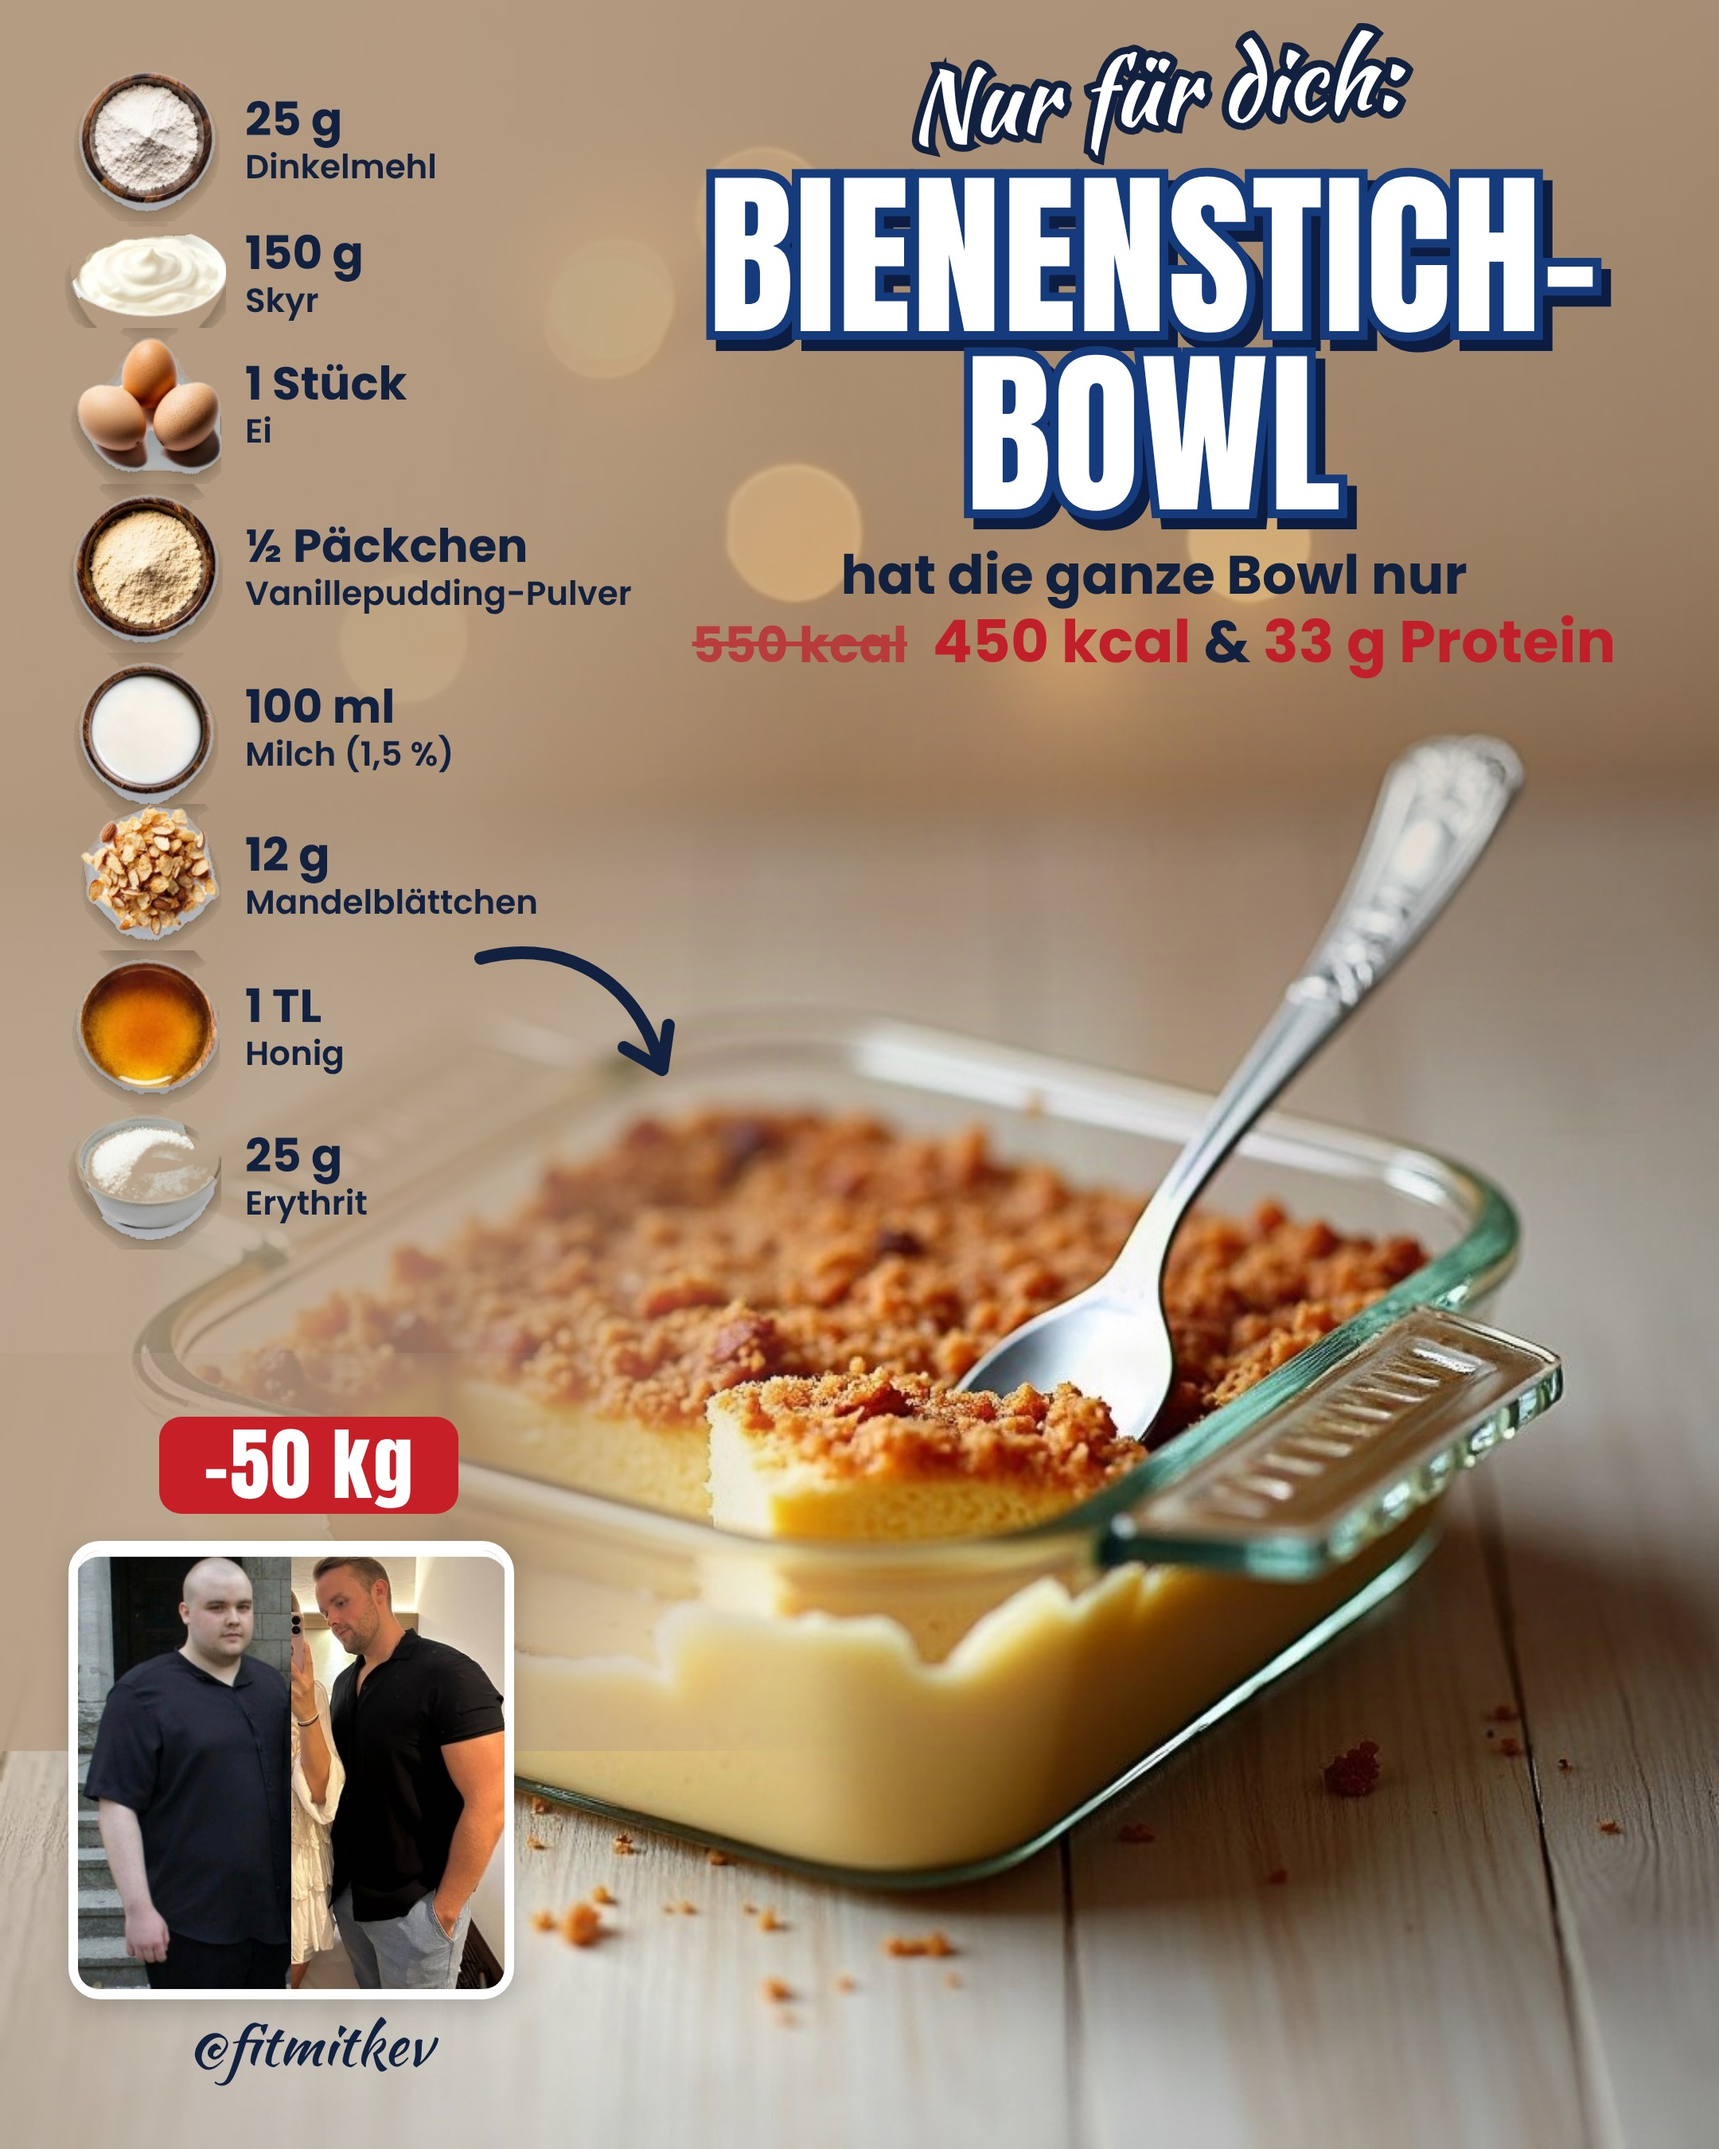
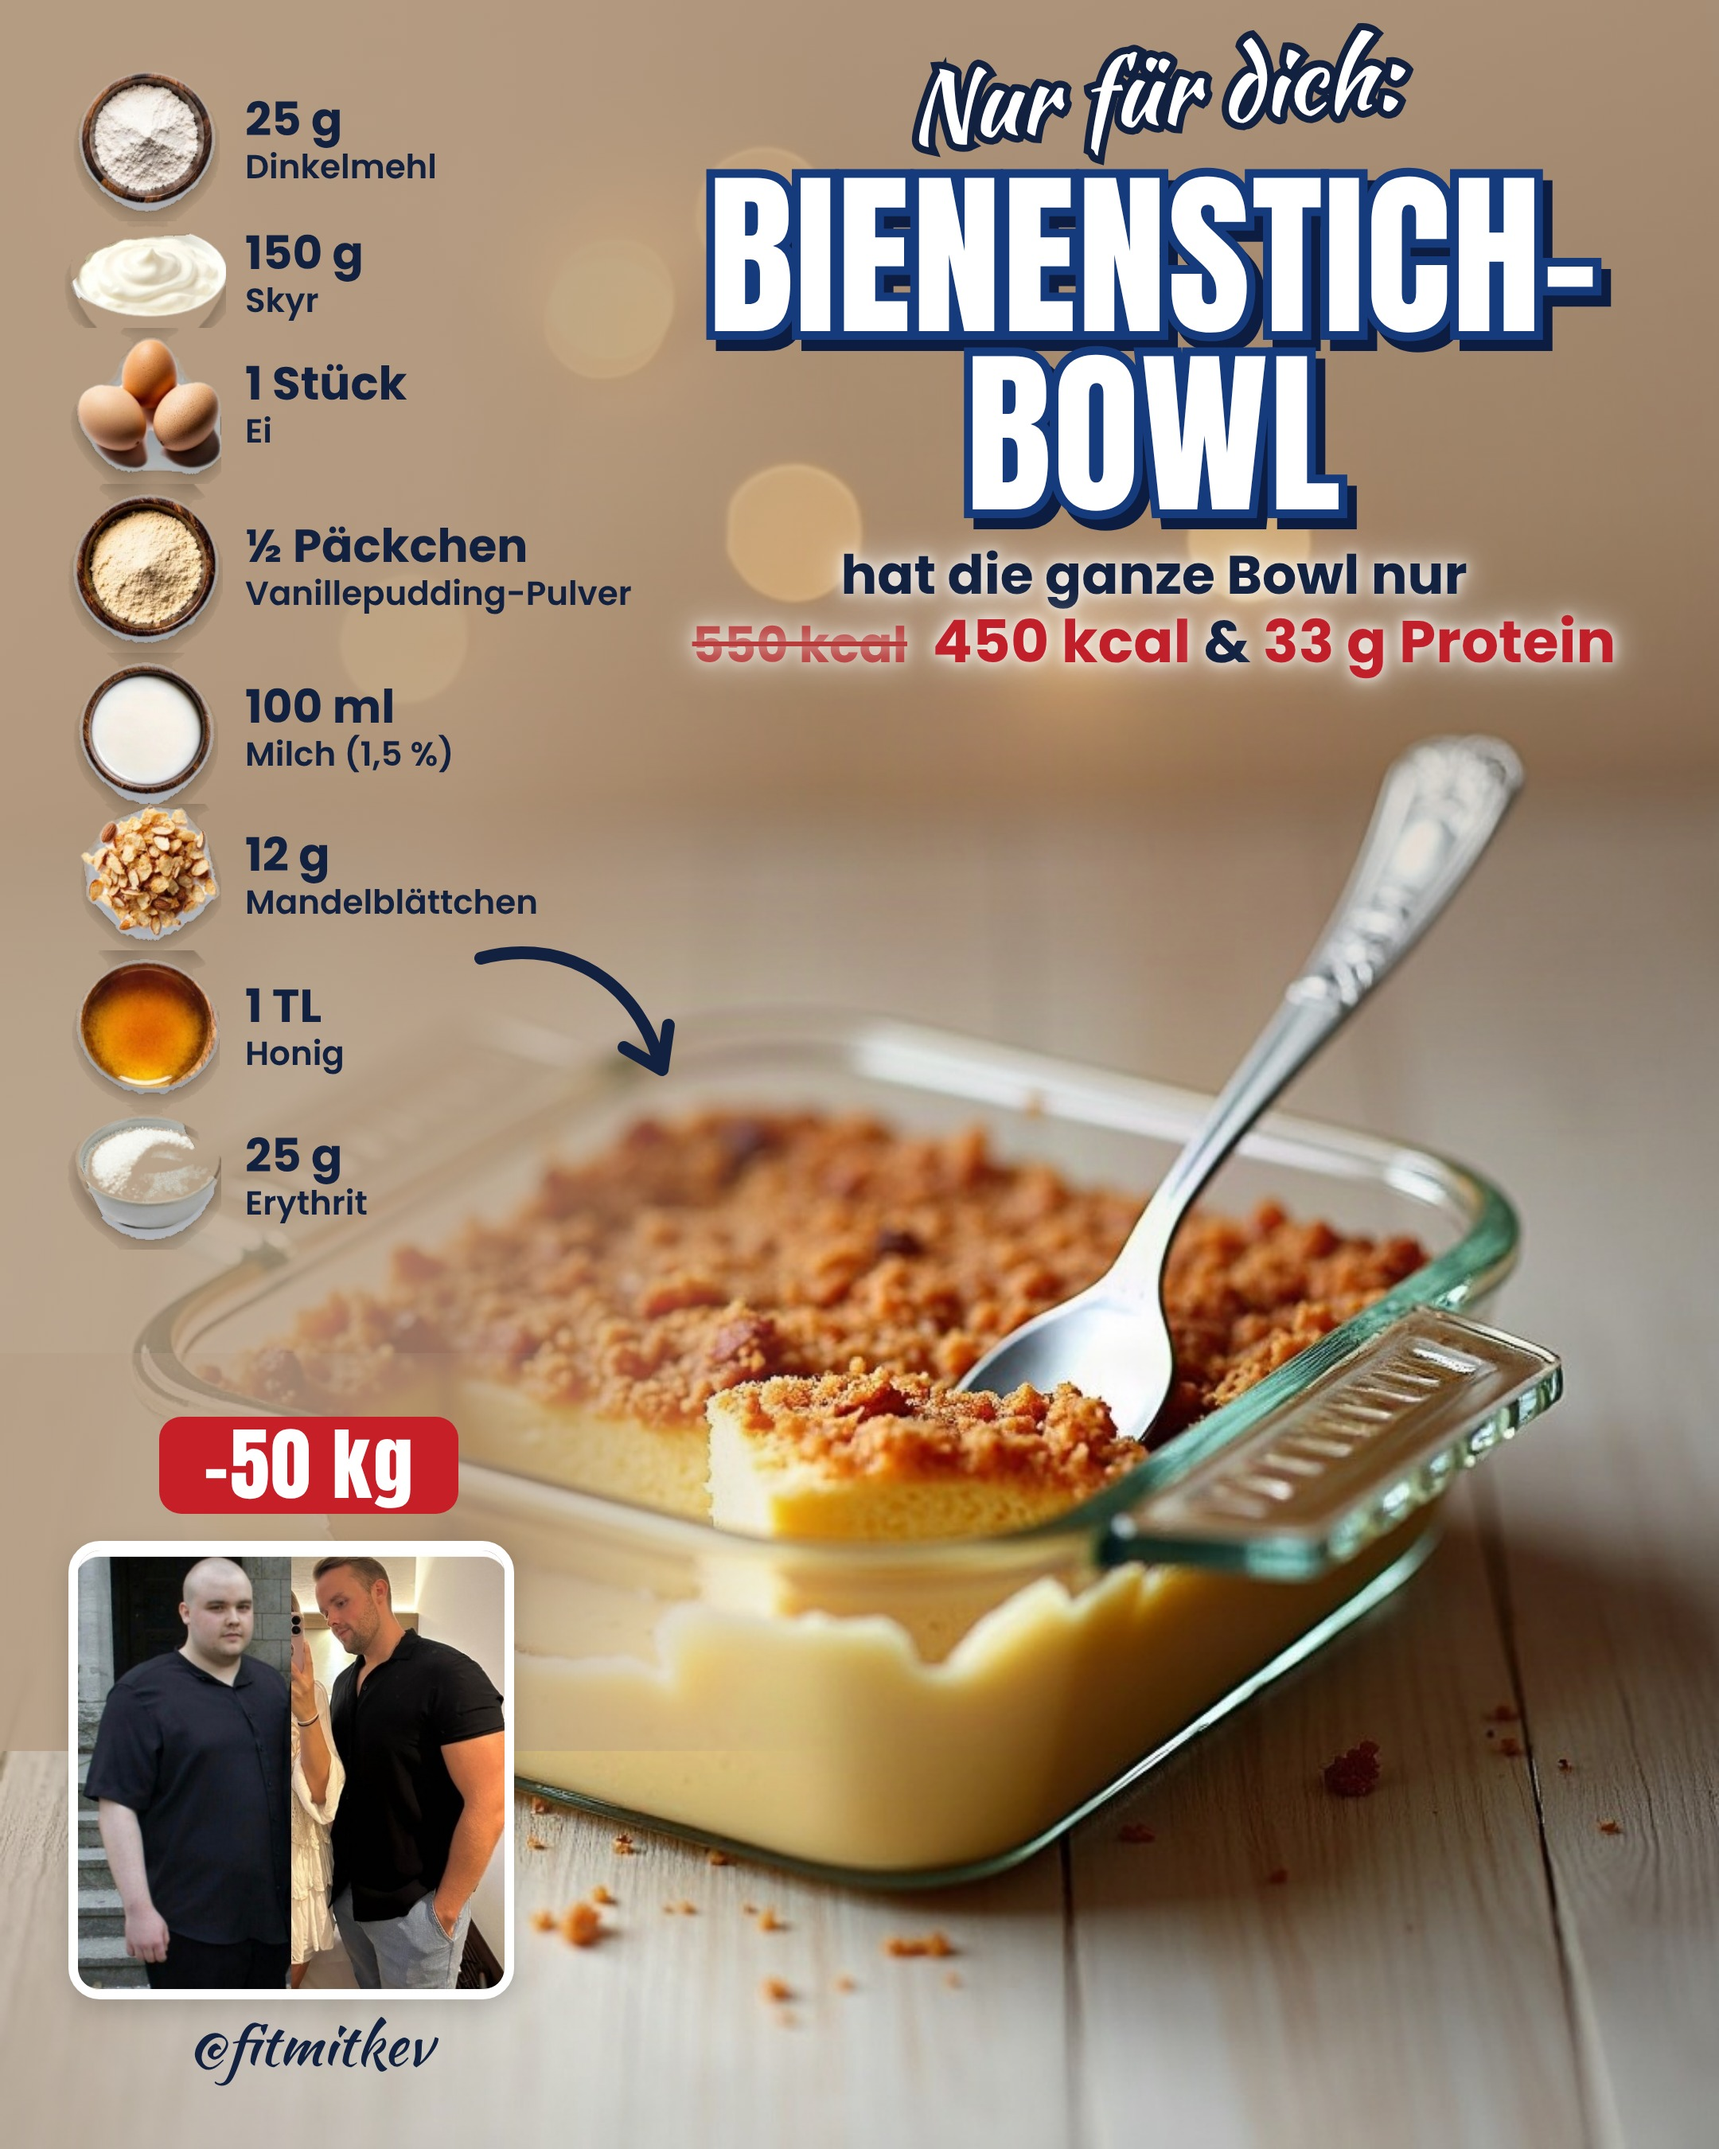
G87: weißer Glow an kcal-Zeilen wie im Original
Claude-Session: https://claude.ai/code/session_01KPVmpRePrZAkggdzf7KsfK

Changed region(s): [[0.4032, 0.2489, 0.9616, 0.3422]]

diff --git a/tools/g87/render87.py b/tools/g87/render87.py
@@ -63,8 +63,8 @@ body{{width:1080px;height:1350px;overflow:hidden;position:relative;font-family:P
 .t-fi{{position:relative;color:#fff;z-index:3}}
 .t-ol{{position:absolute;left:0;top:0;color:{BLUE};-webkit-text-stroke:11px {BLUE};z-index:2}}
 .t-sh{{position:absolute;left:6px;top:7px;color:{DARK};-webkit-text-stroke:11px {DARK};z-index:1}}
-.sub{{font-size:34px;font-weight:700;color:{NAVY};margin-top:14px;line-height:1.1}}
-.kc{{font-size:37px;font-weight:700;color:{RED};margin-top:2px;line-height:1.15}}
+.sub{{font-size:34px;font-weight:700;color:{NAVY};margin-top:14px;line-height:1.1;text-shadow:0 0 8px rgba(255,255,255,.95),0 0 18px rgba(255,255,255,.8),0 0 30px rgba(255,255,255,.5)}}
+.kc{{font-size:37px;font-weight:700;color:{RED};margin-top:2px;line-height:1.15;text-shadow:0 0 8px rgba(255,255,255,.95),0 0 18px rgba(255,255,255,.8),0 0 30px rgba(255,255,255,.5)}}
 .kc s{{color:{RED};opacity:.72;margin-right:8px;font-size:31px}}
 .kc .amp{{color:{NAVY}}}
 .arrow{{position:absolute;left:296px;top:588px}}
